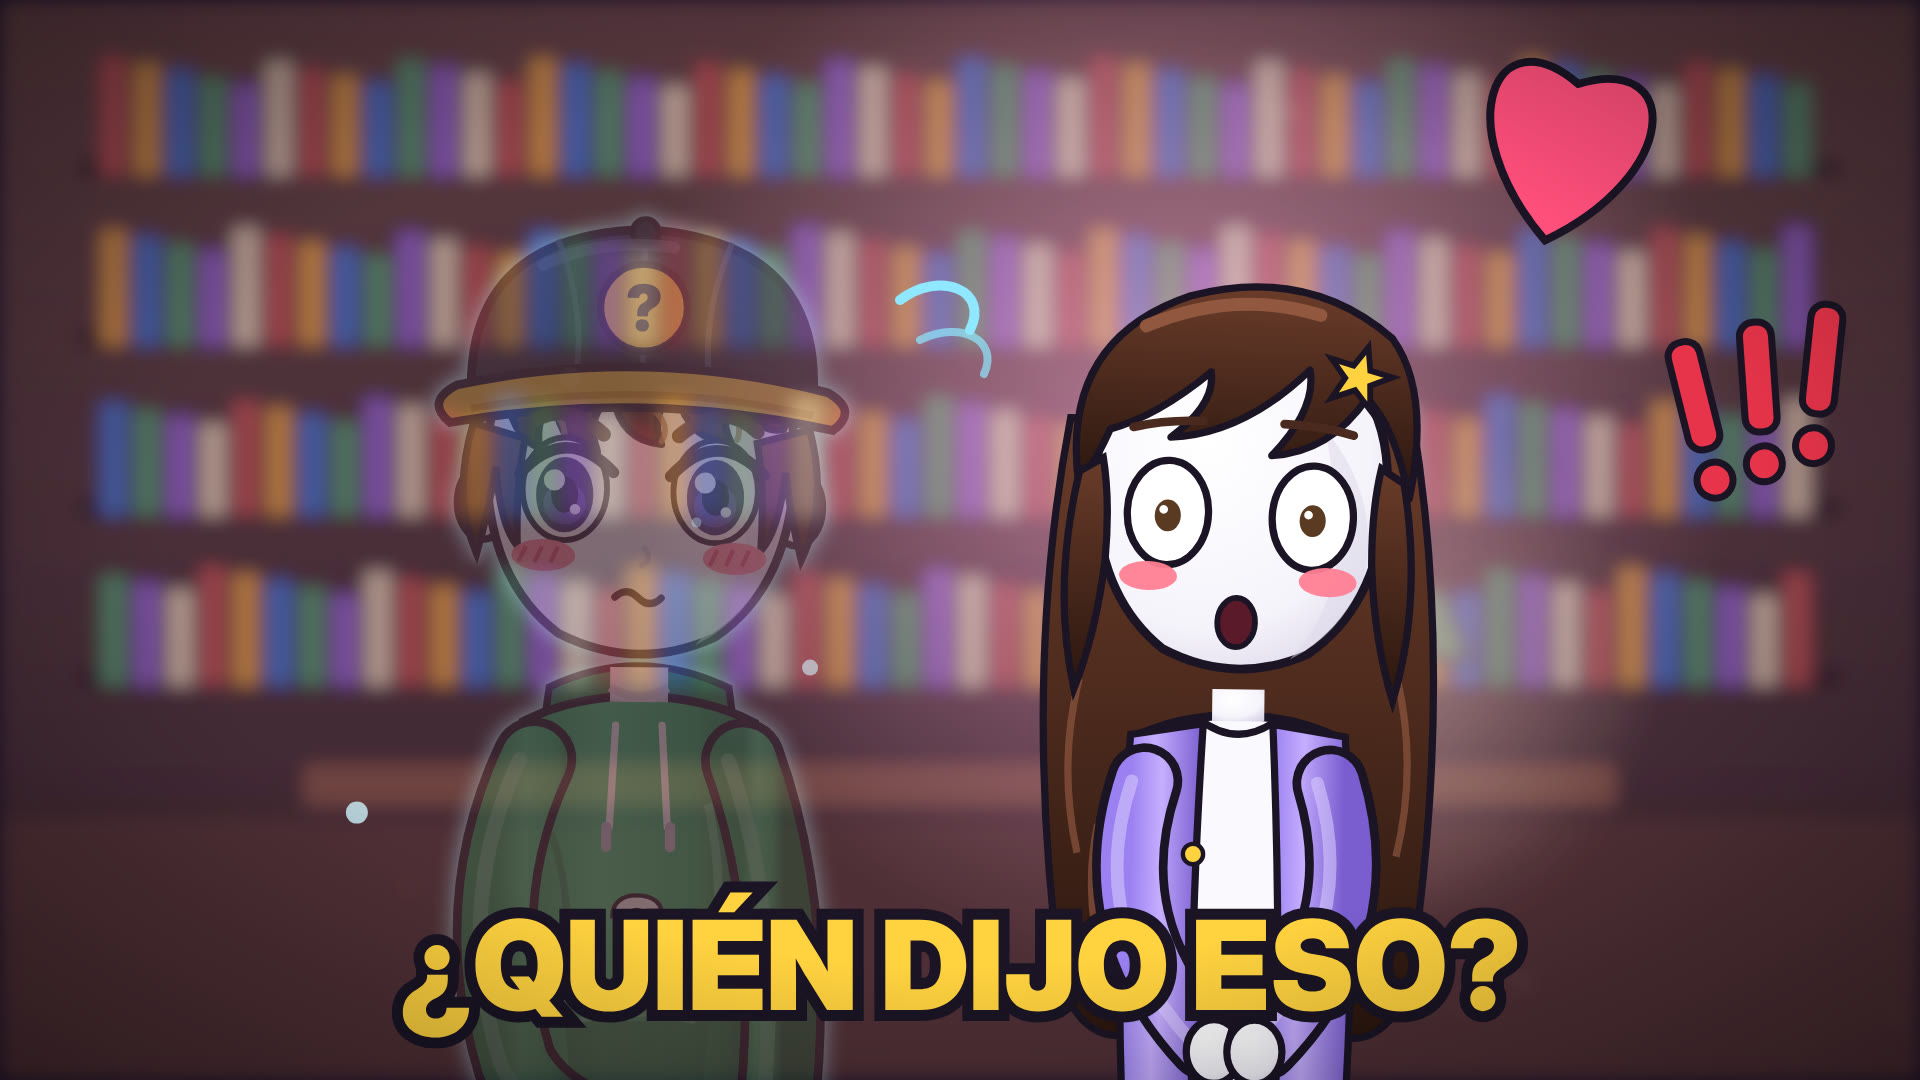
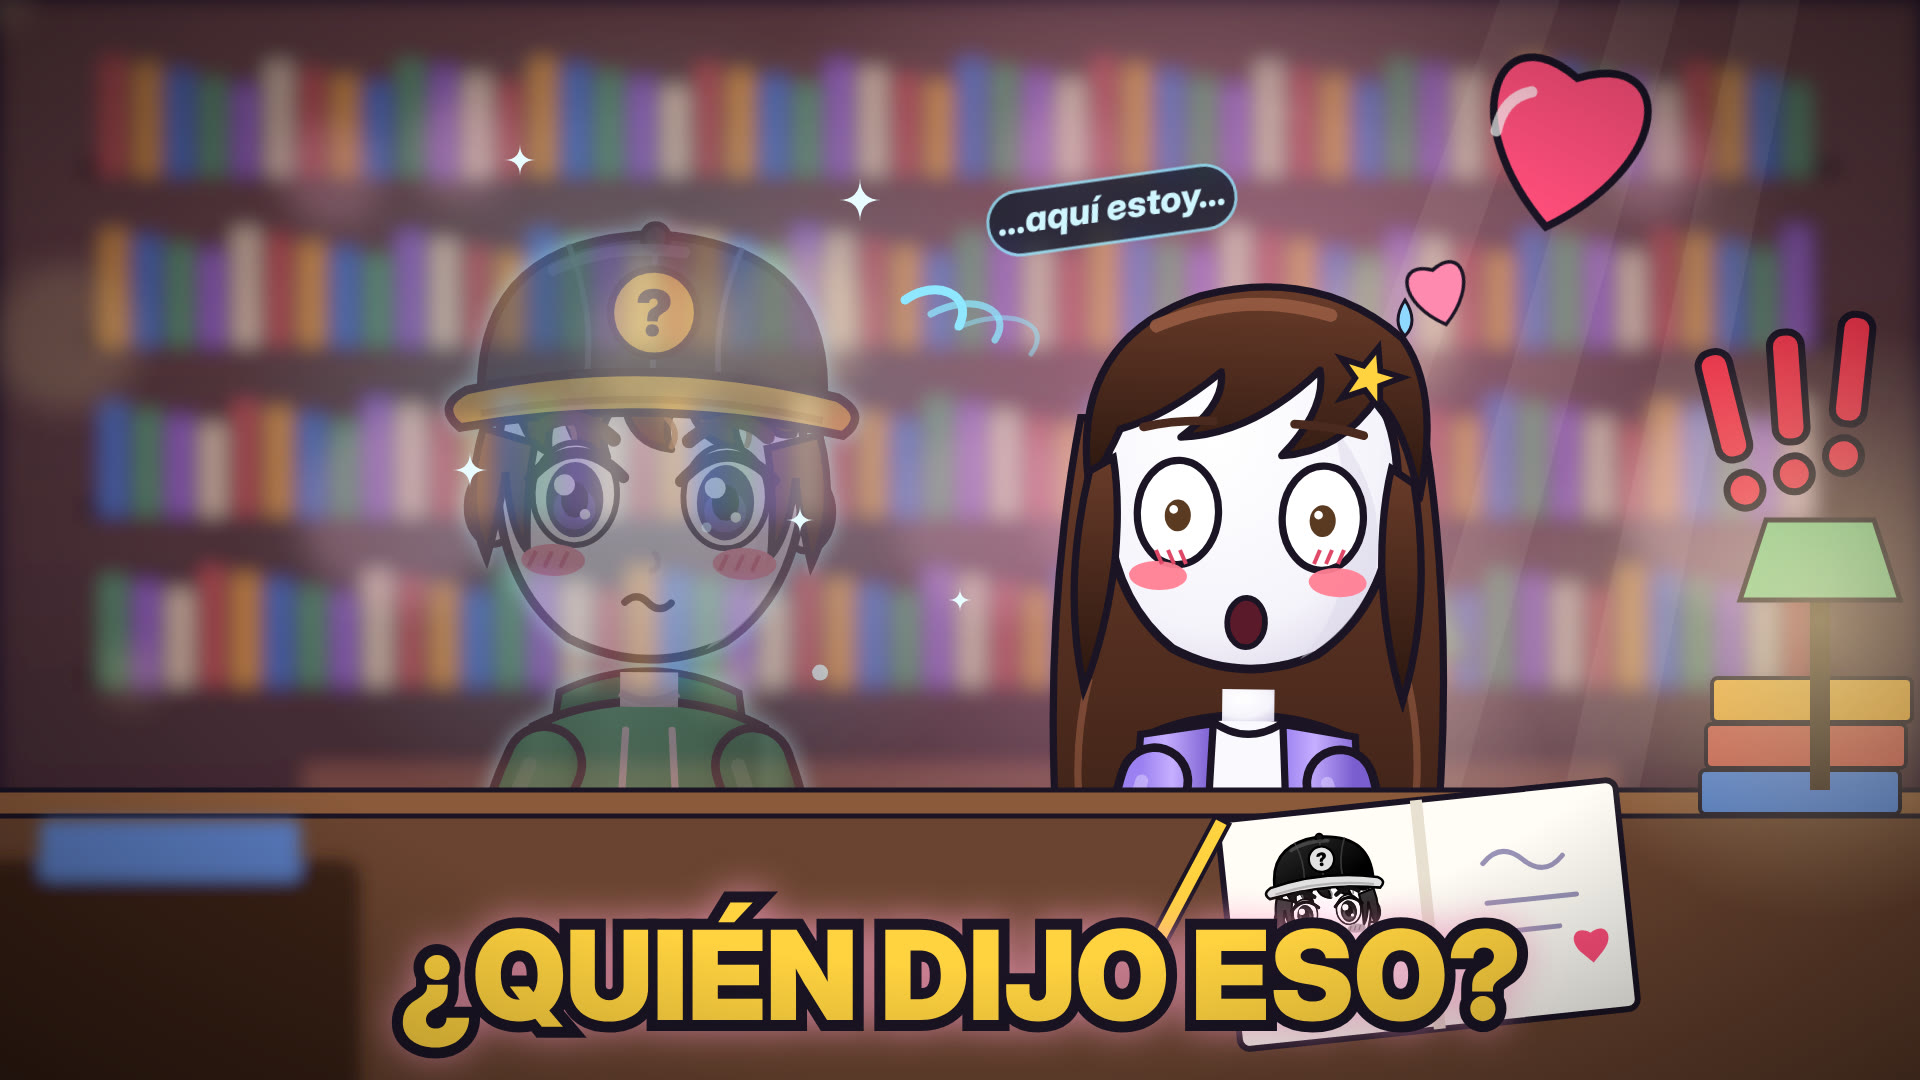
v29: miniatura con más detalle (cuaderno, lámpara, susurro, destellos)
Claude-Session: https://claude.ai/code/session_011f9PzjpwXDM6HqEJ82Dbs1

diff --git a/videos-geopolitica/remotion/src/index29.jsx b/videos-geopolitica/remotion/src/index29.jsx
@@ -231,14 +231,30 @@ const Scene = ({ i, at }) => {
   </AbsoluteFill>;
 };
 const Thumb = () => <AbsoluteFill style={{ background: '#16121F' }}><svg width={W} height={H} viewBox={`0 0 ${W} ${H}`}>
-  <BlurG s={9}>{SETS.biblio(1).bg}</BlurG><rect width={W} height={H} fill="#3A1A4A" opacity="0.35" /><Glow x={1180} y={420} r={560} c="#FF9AC8" o={0.6} />
-  <Char k="S" exp="sorprendido" pose="manos" x={1240} y={560} s={1.45} t={0.4} />
-  <Char k="X" exp="sonrojado" x={640} y={540} s={1.45} t={0.2} inv />
-  <g transform="translate(900 300)"><path d="M0 0 C40 -30 90 -10 70 30" stroke="#8FE8FF" strokeWidth="10" fill="none" strokeLinecap="round" /><path d="M20 40 C60 20 100 40 84 74" stroke="#8FE8FF" strokeWidth="8" fill="none" strokeLinecap="round" opacity="0.7" /></g>
-  <g transform="translate(1560 170) rotate(12) scale(2)"><path d="M0 36 C-60 -10 -48 -70 0 -44 C48 -70 60 -10 0 36Z" fill="#FF4F7B" stroke={OUT} strokeWidth="4" /></g>
-  {[0, 1, 2].map((k) => <g key={k} transform={`translate(${1700 + k * 60} ${420 - k * 18}) rotate(${-14 + k * 10})`}><rect x="-16" y="-80" width="32" height="110" rx="14" fill="#E8344A" stroke={OUT} strokeWidth="7" /><circle cx="0" cy="62" r="18" fill="#E8344A" stroke={OUT} strokeWidth="7" /></g>)}
-  <text x="960" y="1010" textAnchor="middle" fontFamily={FONT} fontWeight="900" fontSize="124" fill="#FFD23F" stroke={OUT} strokeWidth="22" paintOrder="stroke">¿QUIÉN DIJO ESO?</text>
-  <Vignette o={0.45} /></svg></AbsoluteFill>;
+  <BlurG s={10}>{SETS.biblio(1).bg}</BlurG><rect width={W} height={H} fill="#3A1A4A" opacity="0.32" />
+  <BlurG s={16}>{Array.from({ length: 16 }).map((_, k) => <circle key={k} cx={(k * 331) % W} cy={(k * 173) % 700} r={30 + (k % 4) * 22} fill={k % 2 ? '#FFB8D8' : '#FFE2A0'} opacity={0.18 + (k % 3) * 0.06} />)}</BlurG>
+  {[0, 1, 2].map((k) => <path key={k} d={`M${1500 + k * 120} 0 L${1100 + k * 200} 1080 L${1180 + k * 200} 1080 L${1560 + k * 120} 0Z`} fill="#FFF0D0" opacity="0.07" />)}
+  <Glow x={1240} y={430} r={600} c="#FF9AC8" o={0.55} /><Glow x={640} y={430} r={420} c="#8FE8FF" o={0.35} />
+  <Char k="S" exp="sorprendido" pose="manos" x={1250} y={560} s={1.45} t={0.4} />
+  <g transform="translate(1250 520)">{[-1, 1].map((d) => <g key={d}>{[0, 1, 2].map((k) => <path key={k} d={`M${d * 70 + k * 12 * d} 30 l${-6 * d} 14`} stroke="#E04868" strokeWidth="4" />)}</g>)}</g>
+  <path d="M1405 300 q14 22 0 36 q-14 -14 0 -36Z" fill="#8FD8FF" stroke={OUT} strokeWidth="3" />
+  <Char k="X" exp="sonrojado" x={650} y={545} s={1.45} t={0.2} inv />
+  <g transform="translate(905 300)">{[0, 1, 2].map((k) => <path key={k} d={`M${k * 26} ${k * 14} c ${30 + k * 10} -22 ${70 + k * 14} -6 ${54 + k * 10} 26`} stroke="#8FE8FF" strokeWidth={9 - k * 2} fill="none" strokeLinecap="round" opacity={1 - k * 0.25} />)}</g>
+  <g transform="translate(1000 240) rotate(-8)"><rect x="-10" y="-46" width="250" height="64" rx="32" fill="#0E1A2A" opacity="0.75" stroke="#8FE8FF" strokeWidth="3" /><text x="115" y="-4" textAnchor="middle" fontFamily={FONT} fontStyle="italic" fontWeight="800" fontSize="36" fill="#CFF6FF">…aquí estoy…</text></g>
+  {[[860, 200, 22], [520, 160, 16], [800, 520, 14], [470, 470, 18], [960, 600, 12]].map(([x, y, r], k) => <path key={k} transform={`translate(${x} ${y})`} d={`M0 ${-r} Q0 0 ${r} 0 Q0 0 0 ${r} Q0 0 ${-r} 0 Q0 0 0 ${-r}Z`} fill="#E8FBFF" />)}
+  <g transform="translate(1560 160) rotate(12) scale(1.9)"><path d="M0 36 C-60 -10 -48 -70 0 -44 C48 -70 60 -10 0 36Z" fill="#FF4F7B" stroke={OUT} strokeWidth="4" /><path d="M-22 -32 q-14 6 -14 24" stroke="#fff" strokeWidth="6" fill="none" strokeLinecap="round" opacity="0.7" /></g>
+  <g transform="translate(1440 300) rotate(-14) scale(0.7)"><path d="M0 36 C-60 -10 -48 -70 0 -44 C48 -70 60 -10 0 36Z" fill="#FF8AB0" stroke={OUT} strokeWidth="5" /></g>
+  {[0, 1, 2].map((k) => <g key={k} transform={`translate(${1730 + k * 60} ${430 - k * 18}) rotate(${-14 + k * 10})`}><rect x="-16" y="-80" width="32" height="110" rx="14" fill="#E8344A" stroke={OUT} strokeWidth="7" /><circle cx="0" cy="62" r="18" fill="#E8344A" stroke={OUT} strokeWidth="7" /></g>)}
+  <g transform="translate(0 0)"><rect x="-40" y="800" width="2000" height="300" fill="#6A4430" /><rect x="-40" y="790" width="2000" height="26" fill="#8A5A3A" stroke={OUT} strokeWidth="5" />
+    <g transform="translate(1420 840) rotate(-6)"><rect x="-200" y="-40" width="400" height="230" rx="10" fill="#FFFDF6" stroke={OUT} strokeWidth="6" /><rect x="-6" y="-40" width="12" height="230" fill="#E8E0D0" />
+      <g transform="translate(-100 60) scale(0.42)" style={{ filter: 'grayscale(1) contrast(1.3)' }}><Raw html={CH.X.h.sonrojado} /></g>
+      <path d="M60 30 q20 -20 40 0 q20 20 40 0 M60 70 h90 M60 100 h70" stroke="#9A94B8" strokeWidth="5" fill="none" strokeLinecap="round" /><path d="M150 130 C135 115 145 100 160 110 C175 100 185 115 170 130 L160 140Z" fill="#FF4F7B" /></g>
+    <g transform="translate(1180 900) rotate(28)"><rect x="-8" y="-90" width="16" height="170" fill="#FFD23F" stroke={OUT} strokeWidth="4" /><path d="M-8 80 L0 104 L8 80Z" fill="#E8C8A0" stroke={OUT} strokeWidth="3" /></g>
+    {[0, 1, 2].map((k) => <rect key={k} x={1700 + k * 6} y={770 - k * 46} width="200" height="44" rx="6" fill={['#4C7CC8', '#C8584A', '#E8A23A'][k]} stroke={OUT} strokeWidth="4" />)}
+    <g transform="translate(1820 560)"><rect x="-10" y="40" width="20" height="190" fill="#3A2A22" /><path d="M-80 40 L80 40 L54 -40 L-54 -40Z" fill="#7CC07A" stroke={OUT} strokeWidth="5" /><Glow x={0} y={60} r={300} c="#FFE2A0" o={0.6} /></g></g>
+  <BlurG s={8}><rect x="-60" y="860" width="420" height="260" rx="20" fill="#3A2418" /><rect x="40" y="820" width="260" height="60" rx="8" fill="#5A7CC0" /></BlurG>
+  <text x="960" y="1020" textAnchor="middle" fontFamily={FONT} fontWeight="900" fontSize="124" fill="#FFD23F" stroke={OUT} strokeWidth="22" paintOrder="stroke" style={{ filter: 'drop-shadow(0 0 18px rgba(255,160,200,0.7))' }}>¿QUIÉN DIJO ESO?</text>
+  <Vignette o={0.5} /></svg></AbsoluteFill>;
 const Sheet = ({ at }) => { const f = useCurrentFrame(); return <Scene i={f % D.length} at={at} />; };
 registerRoot(() => <>
   {D.map((sc, i) => <Composition key={i} id={`V29-${String(i).padStart(2, '0')}`} component={Scene} defaultProps={{ i }} durationInFrames={sc.frames} fps={30} width={W} height={H} />)}
